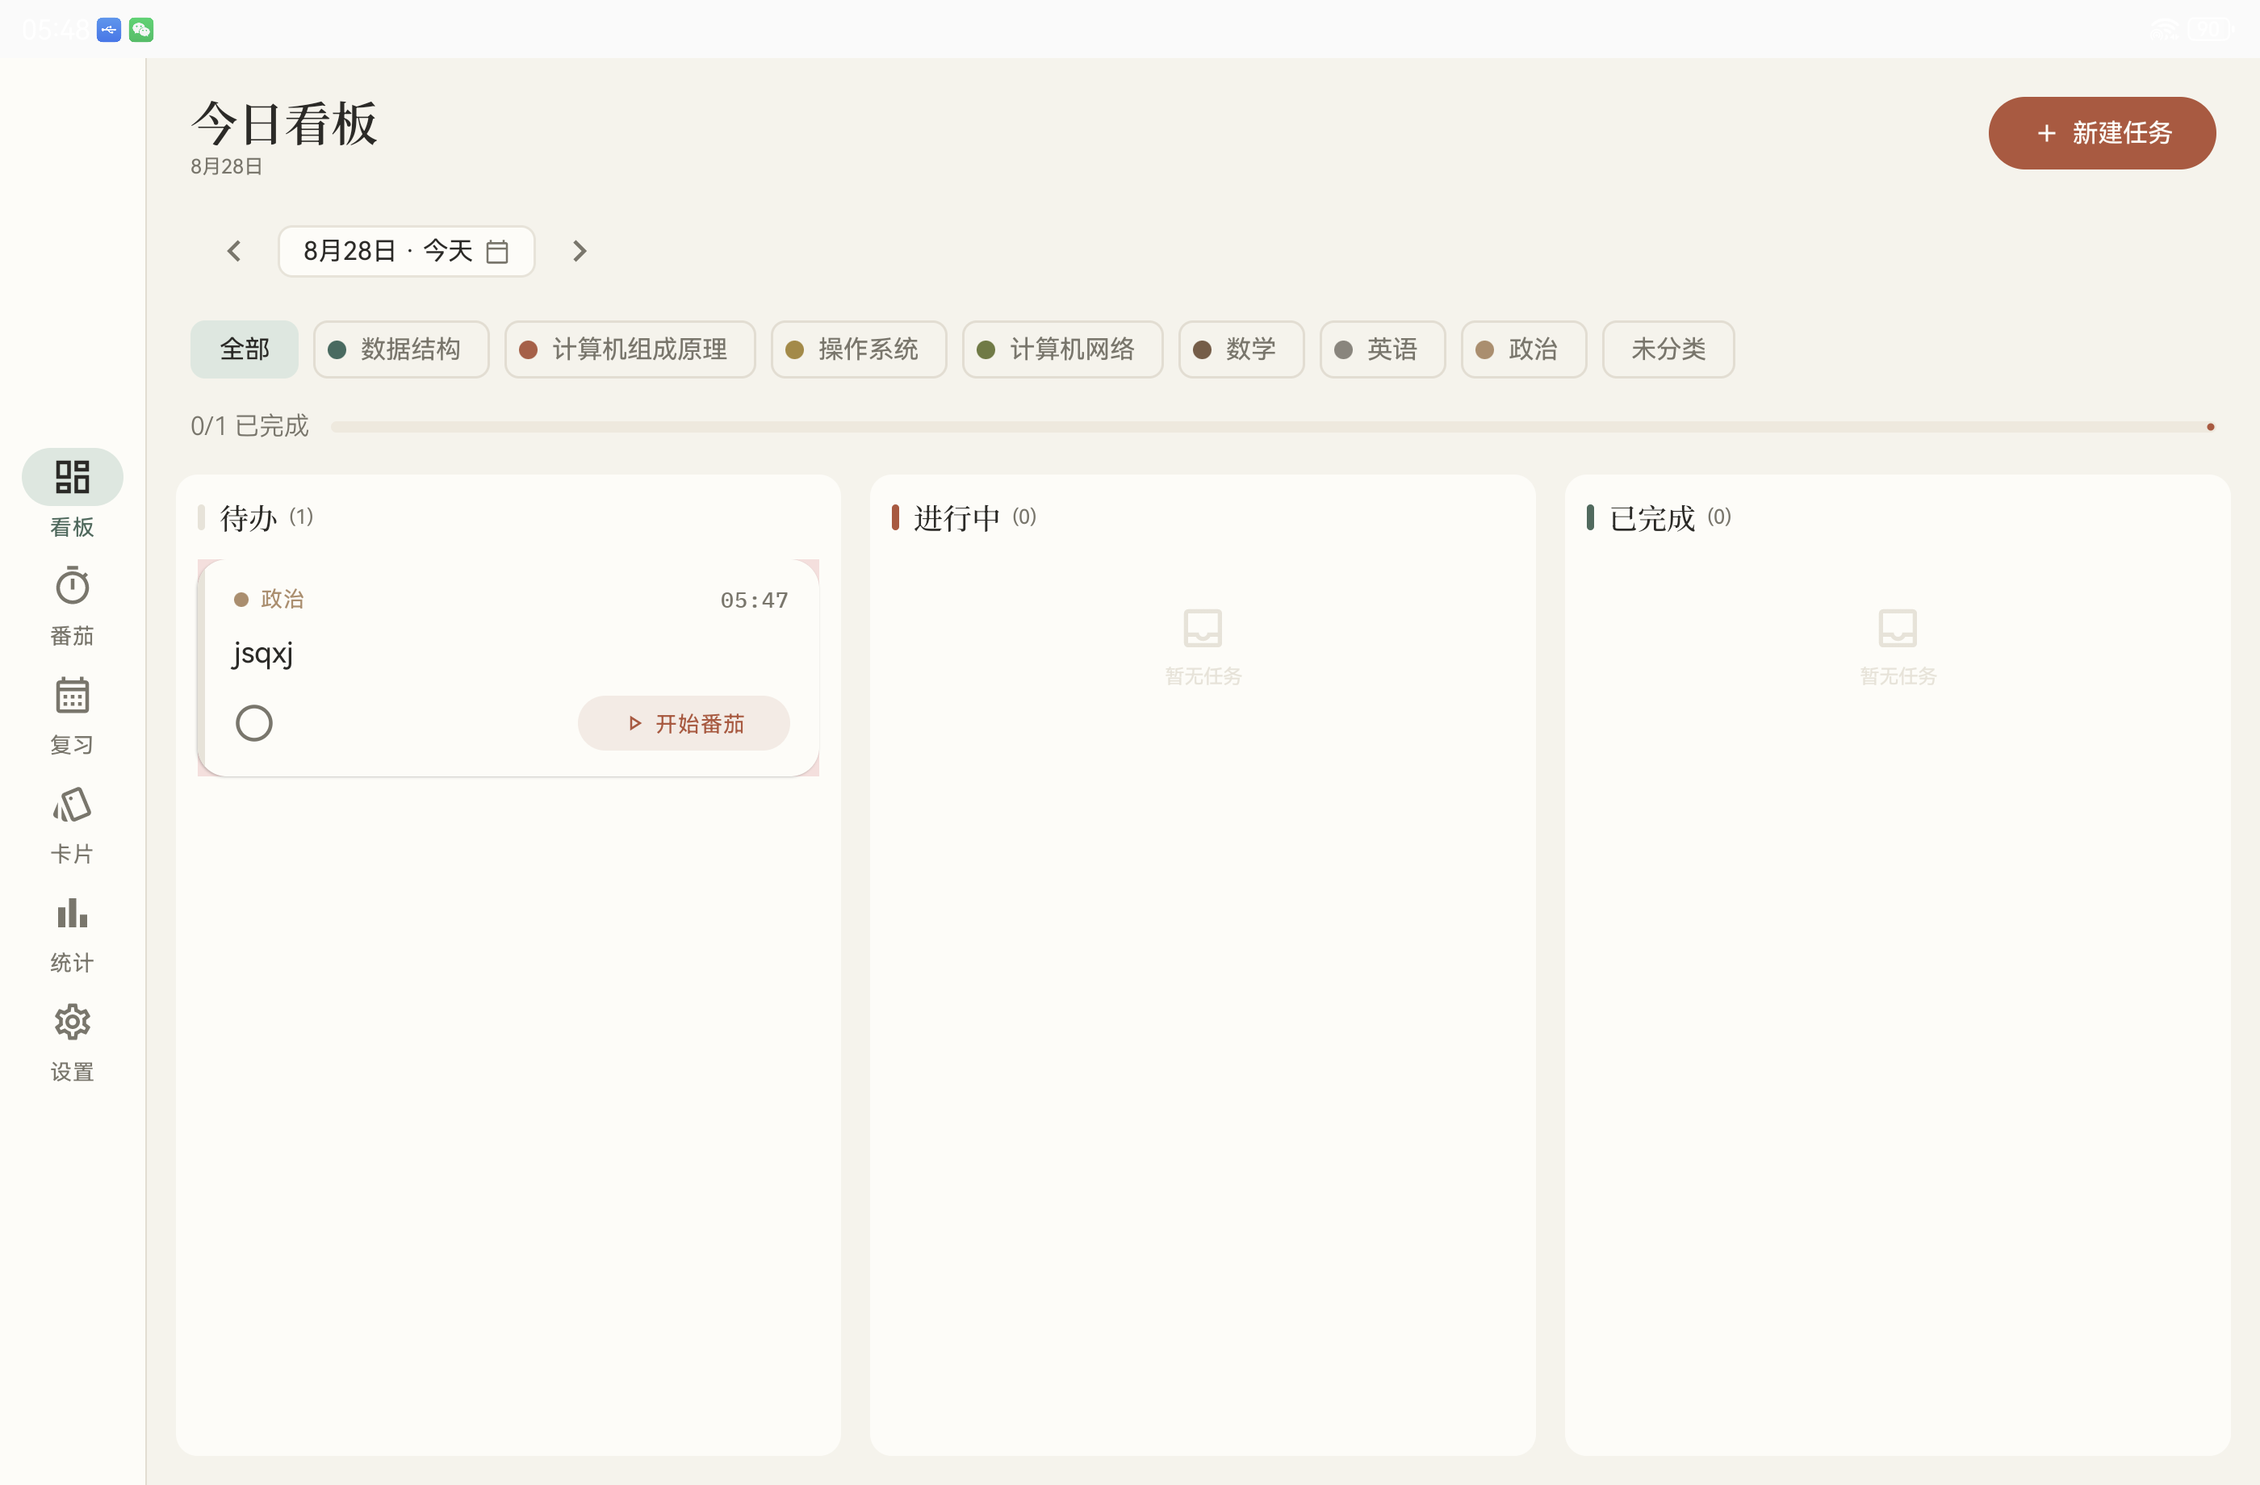
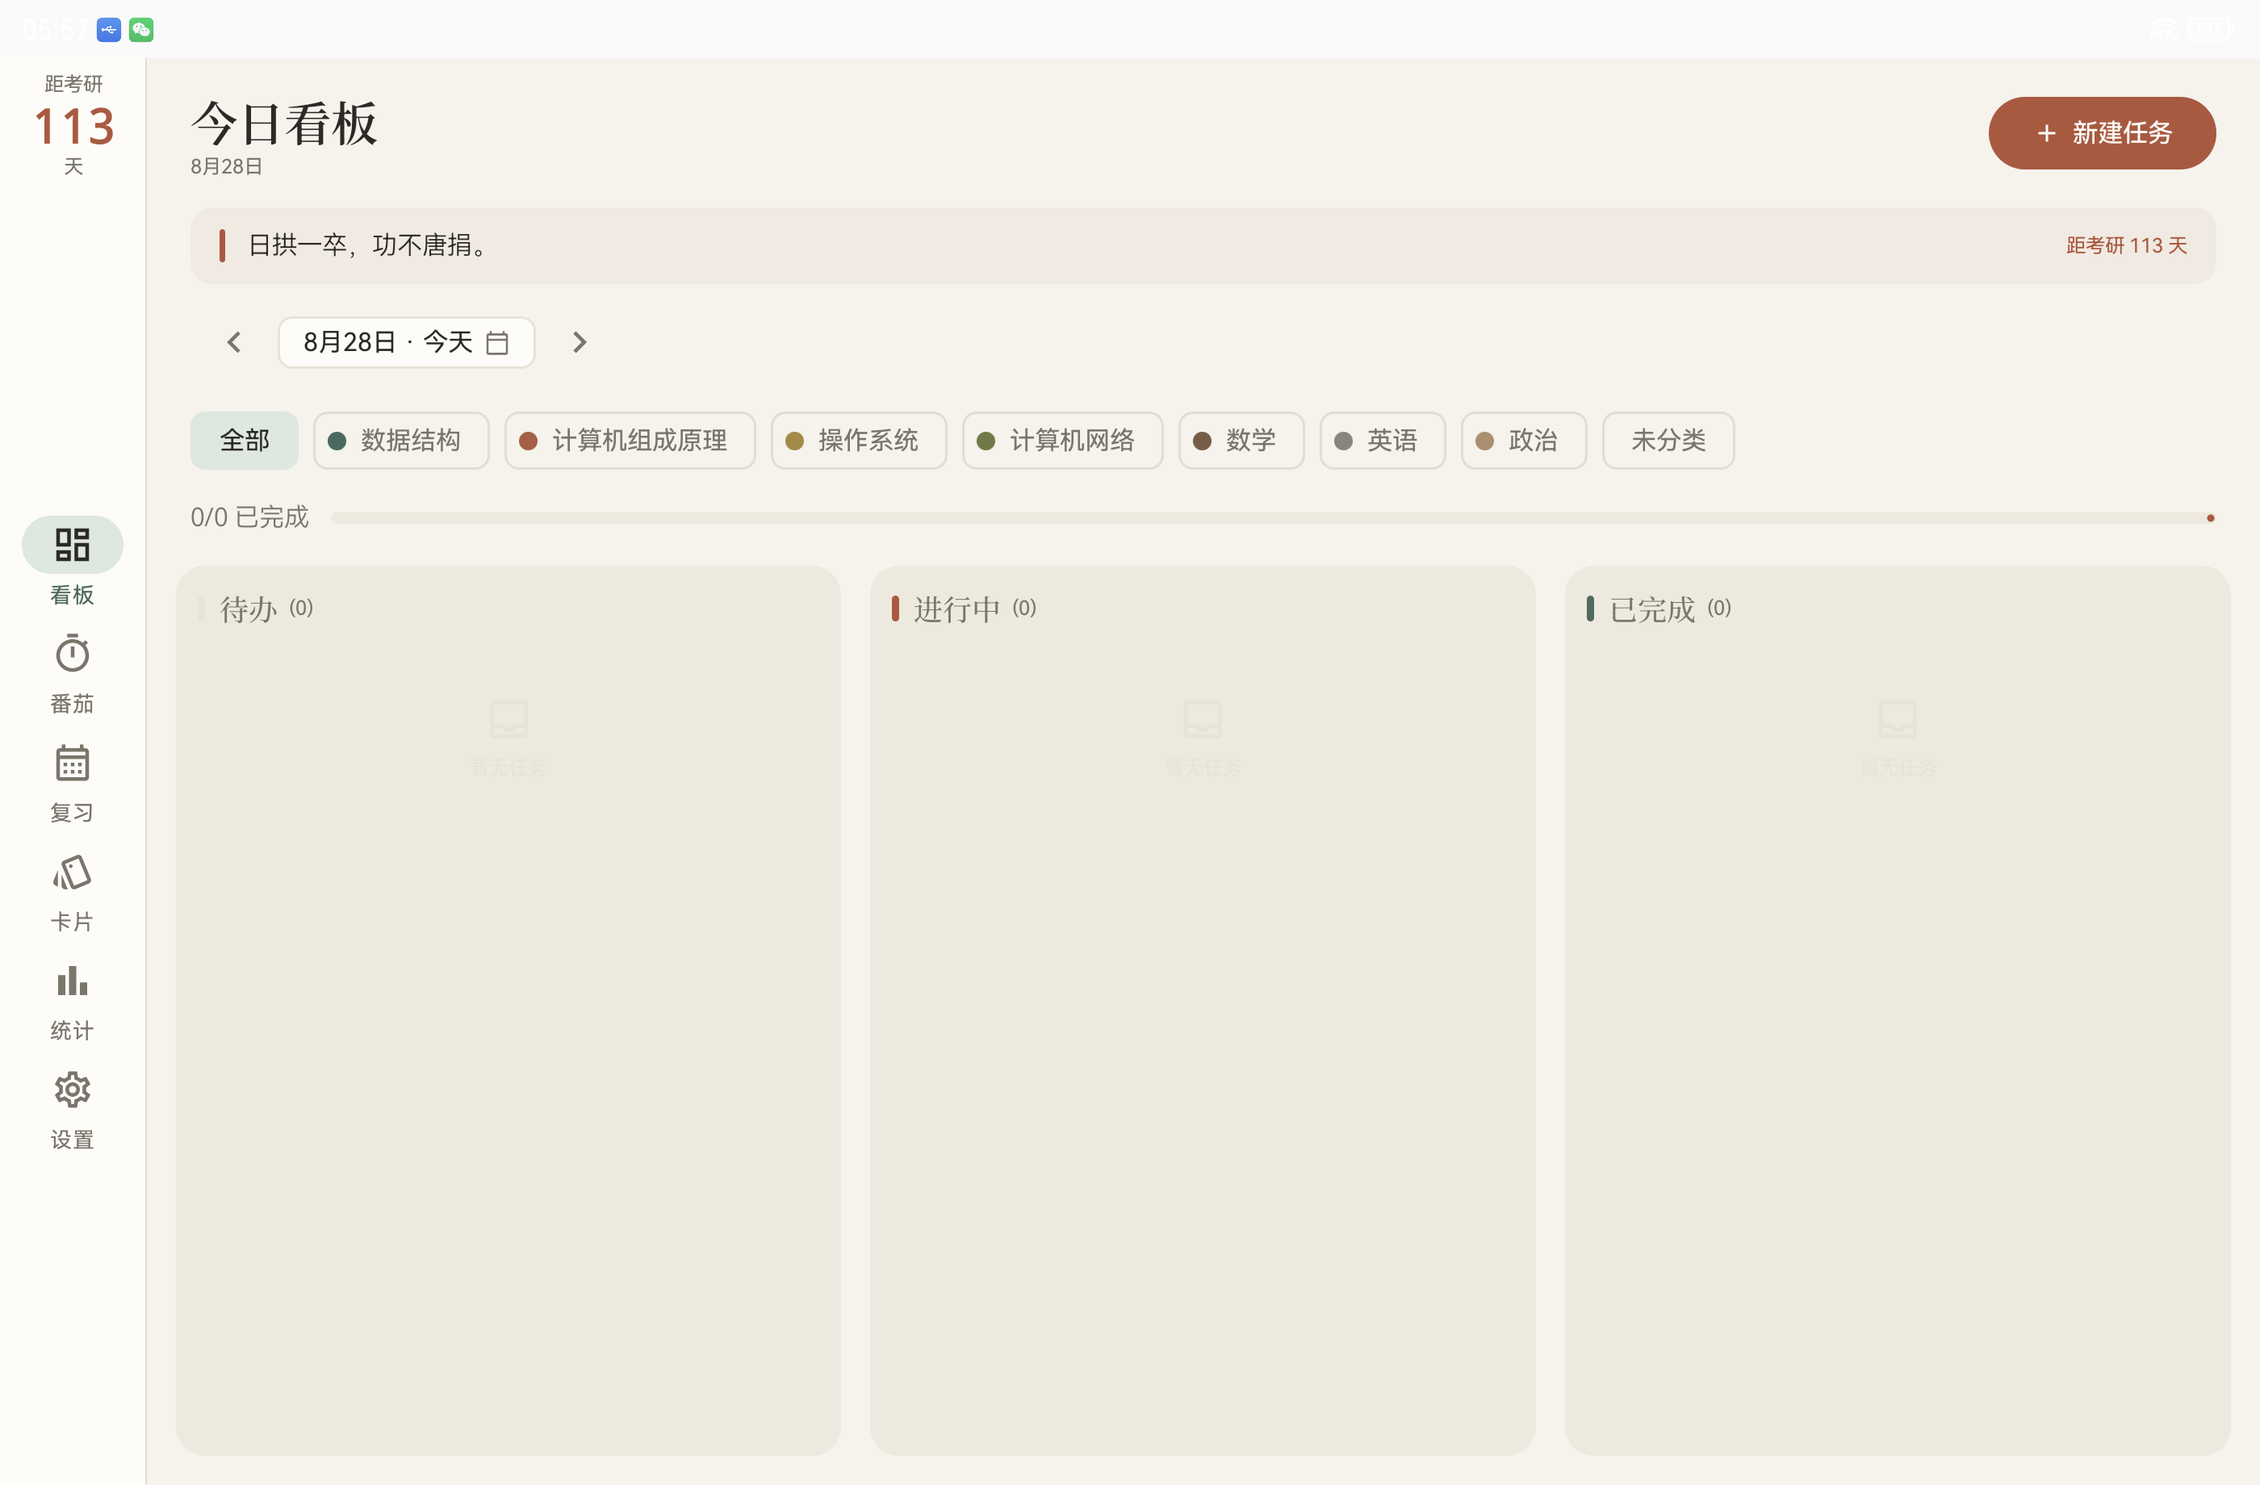
feat: 侧边栏考研倒计时+看板寄语栏(设置可自定义/每日轮换)+卡片与列底对比修复(列深surfaceVariant衬白卡+hairline描边+抬升阴影)

diff --git a/app/src/main/java/com/tomatodo/ui/board/BoardScreen.kt b/app/src/main/java/com/tomatodo/ui/board/BoardScreen.kt
@@ -24,6 +24,7 @@ import androidx.compose.foundation.layout.padding
 import androidx.compose.foundation.layout.size
 import androidx.compose.foundation.layout.width
 import androidx.compose.foundation.shape.CircleShape
+import androidx.compose.foundation.shape.RoundedCornerShape
 import androidx.compose.foundation.lazy.LazyColumn
 import androidx.compose.foundation.lazy.LazyRow
 import androidx.compose.foundation.lazy.items
@@ -67,6 +68,7 @@ import androidx.compose.material3.DropdownMenuItem
 import androidx.compose.runtime.Composable
 import androidx.compose.runtime.collectAsState
 import androidx.compose.runtime.getValue
+import androidx.compose.runtime.remember
 import androidx.compose.runtime.mutableStateOf
 import androidx.compose.runtime.remember
 import androidx.compose.runtime.rememberCoroutineScope
@@ -83,6 +85,8 @@ import com.tomatodo.data.model.Task
 import com.tomatodo.data.model.TaskStatus
 import com.tomatodo.ui.theme.Cinnabar
 import com.tomatodo.ui.theme.PineGreen
+import com.tomatodo.ui.daysToExam
+import com.tomatodo.ui.todayMotto
 import kotlinx.coroutines.launch
 import java.time.Instant
 import java.time.LocalDate
@@ -168,6 +172,10 @@ fun BoardScreen(
                     Text("新建任务")
                 }
             }
+
+            // 语气寄语栏（每日一句格言）
+            MottoBar()
+            Spacer(Modifier.height(8.dp))
 
             // 日期导航条（← 日期 → + DatePicker + 回到今天）
             DateNavBar(
@@ -302,6 +310,50 @@ fun BoardScreen(
                 sheetTask = null
             }
         )
+    }
+}
+
+/** 看板语气寄语栏：选自定义寄语或每日轮换格言（用户可在设置中自定义寄语） */
+@Composable
+private fun MottoBar() {
+    val context = androidx.compose.ui.platform.LocalContext.current
+    val customMotto by remember(context) {
+        (context.applicationContext as com.tomatodo.TomaTodoApplication)
+            .container.settingsPreferences.motto
+    }.collectAsState(initial = null)
+    val motto = customMotto?.takeIf { it.isNotBlank() } ?: todayMotto()
+
+    Surface(
+        modifier = Modifier
+            .fillMaxWidth()
+            .padding(horizontal = 24.dp),
+        shape = RoundedCornerShape(12.dp),
+        color = MaterialTheme.colorScheme.primary.copy(alpha = 0.06f)
+    ) {
+        Row(
+            Modifier.padding(horizontal = 16.dp, vertical = 12.dp),
+            verticalAlignment = Alignment.CenterVertically
+        ) {
+            Box(
+                Modifier
+                    .size(width = 3.dp, height = 18.dp)
+                    .clip(RoundedCornerShape(2.dp))
+                    .background(MaterialTheme.colorScheme.primary)
+            )
+            Spacer(Modifier.width(12.dp))
+            Text(
+                motto,
+                style = MaterialTheme.typography.bodyMedium,
+                color = MaterialTheme.colorScheme.onSurface,
+                maxLines = 2
+            )
+            Spacer(Modifier.weight(1f))
+            Text(
+                "距考研 ${daysToExam()} 天",
+                style = MaterialTheme.typography.labelSmall,
+                color = MaterialTheme.colorScheme.primary
+            )
+        }
     }
 }
 
@@ -460,10 +512,11 @@ private fun BoardColumn(
     modifier: Modifier = Modifier
 ) {
     val columnTasks = tasks.filter { it.status == status }
+    // 列底用深一档的 surfaceVariant，衬出纸白任务卡（避免卡片与底色融合）
     Surface(
         modifier = modifier,
-        shape = MaterialTheme.shapes.medium,
-        color = MaterialTheme.colorScheme.surface
+        shape = RoundedCornerShape(16.dp),
+        color = MaterialTheme.colorScheme.surfaceVariant
     ) {
         Column(Modifier.fillMaxSize().padding(12.dp)) {
             Row(verticalAlignment = Alignment.CenterVertically) {

diff --git a/app/src/main/java/com/tomatodo/ui/MainScreen.kt b/app/src/main/java/com/tomatodo/ui/MainScreen.kt
@@ -9,7 +9,10 @@ import androidx.compose.foundation.layout.Column
 import androidx.compose.foundation.layout.Row
 import androidx.compose.foundation.layout.Spacer
 import androidx.compose.foundation.layout.fillMaxSize
+import androidx.compose.foundation.layout.height
+import androidx.compose.foundation.layout.padding
 import androidx.compose.foundation.layout.safeDrawingPadding
+import androidx.compose.ui.unit.dp
 import androidx.compose.material.icons.Icons
 import androidx.compose.material.icons.outlined.BarChart
 import androidx.compose.material.icons.outlined.CalendarMonth
@@ -18,6 +21,7 @@ import androidx.compose.material.icons.outlined.Settings
 import androidx.compose.material.icons.outlined.Style
 import androidx.compose.material.icons.outlined.Timer
 import androidx.compose.material3.Icon
+import androidx.compose.material3.MaterialTheme
 import androidx.compose.material3.NavigationRail
 import androidx.compose.material3.NavigationRailItem
 import androidx.compose.material3.Surface
@@ -47,6 +51,35 @@ enum class Destination(val label: String, val icon: ImageVector) {
     Cards("卡片", Icons.Outlined.Style),
     Stats("统计", Icons.Outlined.BarChart),
     Settings("设置", Icons.Outlined.Settings),
+}
+
+/** 侧边栏顶部：考研倒计时 */
+@Composable
+private fun CountdownHeader() {
+    val days = daysToExam()
+    Column(
+        horizontalAlignment = Alignment.CenterHorizontally,
+        modifier = Modifier.padding(top = 4.dp, bottom = 8.dp)
+    ) {
+        Text(
+            "距考研",
+            style = MaterialTheme.typography.labelSmall,
+            color = MaterialTheme.colorScheme.onSurfaceVariant
+        )
+        Spacer(Modifier.height(2.dp))
+        Text(
+            "$days",
+            style = MaterialTheme.typography.headlineMedium.copy(
+                color = MaterialTheme.colorScheme.primary
+            ),
+            fontFamily = androidx.compose.ui.text.font.FontFamily.Monospace
+        )
+        Text(
+            "天",
+            style = MaterialTheme.typography.labelSmall,
+            color = MaterialTheme.colorScheme.onSurfaceVariant
+        )
+    }
 }
 
 @Composable
@@ -79,6 +112,8 @@ fun MainScreen() {
                 androidx.compose.animation.AnimatedVisibility(visible = !timerImmersive) {
                     Column {
                         NavigationRail {
+                            // 顶部：考研倒计时
+                            CountdownHeader()
                             Spacer(Modifier.weight(1f))
                             Destination.entries.forEach { dest ->
                                 NavigationRailItem(

diff --git a/app/src/main/java/com/tomatodo/data/preferences/SettingsPreferences.kt b/app/src/main/java/com/tomatodo/data/preferences/SettingsPreferences.kt
@@ -29,7 +29,8 @@ data class TimerSettings(
     val vibrationOnly: Boolean = false,
     val themeMode: ThemeMode = ThemeMode.SYSTEM,
     val immersionMode: ImmersionMode = ImmersionMode.FLIP,
-    val wallpaperPath: String? = null
+    val wallpaperPath: String? = null,
+    val motto: String? = null
 )
 
 class SettingsPreferences(private val context: Context) {
@@ -45,6 +46,7 @@ class SettingsPreferences(private val context: Context) {
         val THEME_MODE = intPreferencesKey("theme_mode")
         val IMMERSION_MODE = stringPreferencesKey("immersion_mode")
         val WALLPAPER_PATH = stringPreferencesKey("wallpaper_path")
+        val MOTTO = stringPreferencesKey("motto")
     }
 
     val settings: Flow<TimerSettings> = context.dataStore.data.map { prefs ->
@@ -60,9 +62,12 @@ class SettingsPreferences(private val context: Context) {
             immersionMode = runCatching {
                 ImmersionMode.valueOf(prefs[Keys.IMMERSION_MODE] ?: ImmersionMode.FLIP.name)
             }.getOrDefault(ImmersionMode.FLIP),
-            wallpaperPath = prefs[Keys.WALLPAPER_PATH]
+            wallpaperPath = prefs[Keys.WALLPAPER_PATH],
+            motto = prefs[Keys.MOTTO]
         )
     }
+
+    val motto: Flow<String?> = context.dataStore.data.map { prefs -> prefs[Keys.MOTTO] }
 
     suspend fun setFocusMinutes(value: Int) = edit { it[Keys.FOCUS] = value }
     suspend fun setShortBreakMinutes(value: Int) = edit { it[Keys.SHORT_BREAK] = value }
@@ -75,6 +80,9 @@ class SettingsPreferences(private val context: Context) {
     suspend fun setImmersionMode(value: ImmersionMode) = edit { it[Keys.IMMERSION_MODE] = value.name }
     suspend fun setWallpaperPath(value: String?) = edit {
         if (value == null) it.remove(Keys.WALLPAPER_PATH) else it[Keys.WALLPAPER_PATH] = value
+    }
+    suspend fun setMotto(value: String?) = edit {
+        if (value.isNullOrBlank()) it.remove(Keys.MOTTO) else it[Keys.MOTTO] = value.trim()
     }
 
     private suspend fun edit(block: (androidx.datastore.preferences.core.MutablePreferences) -> Unit) {

diff --git a/app/src/main/java/com/tomatodo/ui/settings/SettingsScreen.kt b/app/src/main/java/com/tomatodo/ui/settings/SettingsScreen.kt
@@ -31,6 +31,7 @@ import androidx.compose.material.icons.outlined.DarkMode
 import androidx.compose.material.icons.outlined.Delete
 import androidx.compose.material.icons.outlined.Fullscreen
 import androidx.compose.material.icons.outlined.Label
+import androidx.compose.material.icons.outlined.FormatQuote
 import androidx.compose.material.icons.outlined.Remove
 import androidx.compose.material.icons.outlined.Timer
 import androidx.compose.material.icons.outlined.VolumeUp
@@ -92,6 +93,8 @@ fun SettingsScreen(viewModel: SettingsViewModel = viewModel()) {
     val subjects by viewModel.subjects.collectAsState()
     var showRingtoneMenu by remember { mutableStateOf(false) }
     var showAddSubject by remember { mutableStateOf(false) }
+    var mottoText by remember { mutableStateOf(settings.motto ?: "") }
+    val keyboardHider = androidx.compose.ui.platform.LocalSoftwareKeyboardController.current
 
     val exportLauncher = rememberLauncherForActivityResult(
         ActivityResultContracts.CreateDocument("application/zip")
@@ -263,6 +266,25 @@ fun SettingsScreen(viewModel: SettingsViewModel = viewModel()) {
                 selected = settings.themeMode,
                 onSelect = viewModel::setThemeMode
             )
+        }
+        Spacer(Modifier.height(16.dp))
+
+        // ---- 看板寄语（可自定义）----
+        SettingsGroup(title = "看板寄语", icon = Icons.Outlined.FormatQuote) {
+            OutlinedTextField(
+                value = mottoText,
+                onValueChange = { mottoText = it },
+                label = { Text("自定义寄语（留空则每日轮换格言）") },
+                modifier = Modifier.fillMaxWidth(),
+                minLines = 2
+            )
+            Spacer(Modifier.height(8.dp))
+            TextButton(onClick = {
+                viewModel.setMotto(mottoText)
+                keyboardHider?.hide()
+            }) {
+                Text("保存寄语")
+            }
         }
         Spacer(Modifier.height(16.dp))
 

diff --git a/app/src/main/java/com/tomatodo/ui/ExamCountdown.kt b/app/src/main/java/com/tomatodo/ui/ExamCountdown.kt
@@ -1,0 +1,30 @@
+package com.tomatodo.ui
+
+import java.time.LocalDate
+import java.time.temporal.ChronoUnit
+
+/** 考研目标日（可在设置中配置，此处先定常量） */
+val EXAM_DATE: LocalDate = LocalDate.of(2026, 12, 19)
+
+/** 距考研还剩天数（含今天） */
+fun daysToExam(): Long =
+    ChronoUnit.DAYS.between(LocalDate.now(), EXAM_DATE).coerceAtLeast(0)
+
+/** 看板寄语（按日期轮换） */
+private val MOTTOS = listOf(
+    "日拱一卒，功不唐捐。",
+    "慢慢来，比较快。",
+    "你所向往的，都在更高处。",
+    "种一棵树最好的时间是十年前，其次是现在。",
+    "乾坤未定，你我皆是黑马。",
+    "不积跬步，无以至千里。",
+    "坚持的意义，是你在低谷仍向上走。",
+    "但行好事，莫问前程。",
+    "此刻打盹，你将做梦；此刻学习，你将圆梦。",
+    "书山有路勤为径，学海无涯苦作舟。"
+)
+
+/** 今日寄语 */
+fun todayMotto(): String = MOTTOS[
+    (LocalDate.now().dayOfYear % MOTTOS.size).toInt()
+]

diff --git a/app/src/main/java/com/tomatodo/ui/board/TaskCard.kt b/app/src/main/java/com/tomatodo/ui/board/TaskCard.kt
@@ -180,10 +180,12 @@ fun TaskCard(
         },
         shape = RoundedCornerShape(16.dp),
         colors = CardDefaults.cardColors(containerColor = MaterialTheme.colorScheme.surface),
-        border = if (task.status == TaskStatus.DOING && !done) {
-            androidx.compose.foundation.BorderStroke(1.dp, Cinnabar.copy(alpha = 0.45f))
-        } else null,
-        elevation = CardDefaults.cardElevation(defaultElevation = 1.dp)
+        border = androidx.compose.foundation.BorderStroke(
+            1.dp,
+            if (task.status == TaskStatus.DOING && !done) Cinnabar.copy(alpha = 0.55f)
+            else MaterialTheme.colorScheme.outlineVariant
+        ),
+        elevation = CardDefaults.cardElevation(defaultElevation = 2.dp)
     ) {
         Row(Modifier.height(androidx.compose.foundation.layout.IntrinsicSize.Min)) {
             // 左缘状态色条（随卡片圆角被一起裁剪）

diff --git a/app/src/main/java/com/tomatodo/ui/settings/SettingsViewModel.kt b/app/src/main/java/com/tomatodo/ui/settings/SettingsViewModel.kt
@@ -40,6 +40,9 @@ class SettingsViewModel(application: Application) : AndroidViewModel(application
     fun setImmersionMode(mode: com.tomatodo.data.preferences.ImmersionMode) =
         viewModelScope.launch { prefs.setImmersionMode(mode) }
 
+    /** 自定义看板寄语（留空则每日轮换格言） */
+    fun setMotto(value: String?) = viewModelScope.launch { prefs.setMotto(value) }
+
     /** 上传沉浸背景图：压缩拷贝到内部存储并记录路径 */
     fun setWallpaper(uri: Uri?) = viewModelScope.launch(Dispatchers.IO) {
         if (uri == null) {
